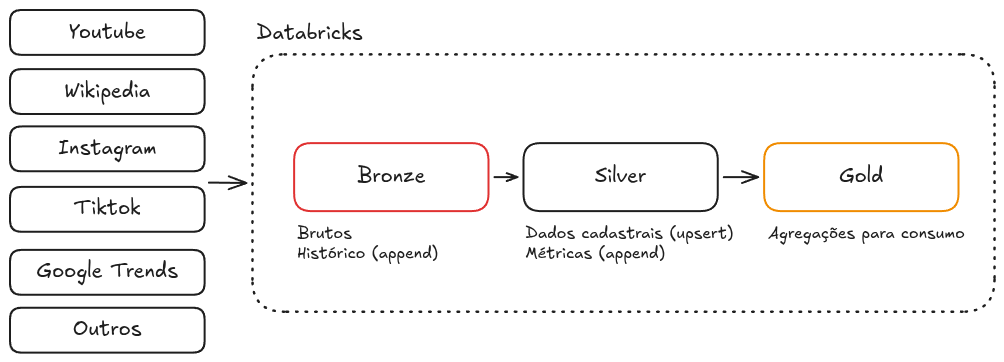
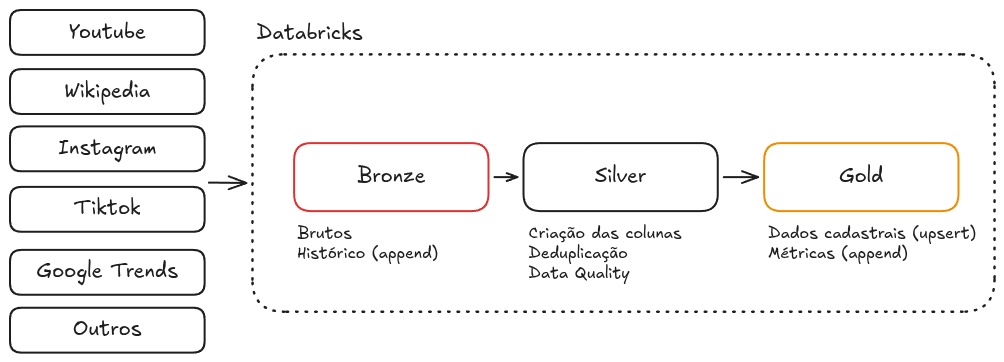
arquitetura

Changed region(s): [[0.5249, 0.6077, 0.741, 0.7901], [0.7719, 0.6077, 0.988, 0.7293]]

diff --git a/README.md b/README.md
@@ -46,7 +46,7 @@ bronze/
     └── ingestion_date=2024-04-15/
 ```
 
-Na camada Silver, os dados da bronze seriam transformados em tabelas: extração informações / colunas a partir do HTML com regex, extração informações / colunas a partir do Json da API, tipagem dessas colunas, deduplicação das linhas, validações das urls extraídas (como a url do YouTube extraída do Wikipedia), alguns joins de enriquecimento (com os dados extraídos do Wikipedia), aplicação de dataquality (testes de unicidade e completude).
+Na camada Silver, os dados da bronze seriam transformados em tabelas: extração informações / colunas a partir do HTML com regex, extração informações / colunas a partir do Json da API, tipagem dessas colunas, deduplicação das linhas, validações das urls extraídas (como a url do YouTube extraída do Wikipedia), alguns joins de enriquecimento (com os dados extraídos do Wikipedia), aplicação de dataquality (testes de unicidade e completude). Os dados seriam atualizados por Upsert.
 
 O particionamento seria o mesmo da bronze:
 ```
@@ -161,24 +161,23 @@ Notebook 1 (extração e salva na Bronze) -> Notebook 3 (lê da Bronze, transfor
 
 ### Notebook 1 — Extração (Bronze)
 
-- Lê `creators_scrape_wiki` para obter a lista de criadores
-- Chama Wikipedia API para resolver `wiki_page` → `creator_id`
-- Chama YouTube API para buscar metadados de canais e vídeos
-- Grava resultado bruto em `bronze.creators_raw` e `bronze.posts_raw` (append com timestamp)
+- lista ids do YouTube, Instagram, etc
+- Busca nas API pelos dados e metadados
+- Grava resultado bruto em `bronze.source` (append com timestamp)
 
 ### Notebook 2 — Transformação (Silver)
 
-- Lê Bronze, valida e limpa os dados
+- Lê Bronze, cria colunas, valida e limpa os dados
 - Tipagem explícita de todas as colunas
 - Remove duplicatas e registros inválidos
+- Data Quality
 - Upsert via `MERGE INTO` nas tabelas Silver
 
 ### Notebook 3 — Agregação (Gold)
 
-- Lê Silver e calcula agregações mensais por criador
-- Garante que todos os meses do intervalo existam (cross join com calendário)
-- Preenche meses sem posts com `num_posts = 0`
-- Sobrescreve tabelas Gold com `overwrite`
+- Lê Silver e cria tabelas fato e dimensões
+- Sobrescreve tabelas de cadastro / dimensão com `overwrite`
+- Snapshot das tabelas de métricas
 
 ---
 
@@ -186,11 +185,11 @@ Notebook 1 (extração e salva na Bronze) -> Notebook 3 (lê da Bronze, transfor
 
 ### Qualidade dos Dados
 
-Em cada notebook Silver, validações são executadas antes do upsert:
+Em cada notebook Silver, validações são executadas antes do upsert, com [ferramentas já disponíveis no Databricks](https://www.databricks.com/discover/pages/data-quality-management):
 
 ```python
 # Exemplos de checks de qualidade
-assert df.filter(F.col("creator_id").isNull()).count() == 0, "creator_id encontrado"
+assert df.filter(F.col("id_criador").isUnique()), "id_criador é único"
 assert df.filter(F.col("likes") < 0).count() == 0, "likes negativos encontrado"
 assert df.filter(F.col("published_at") > F.current_timestamp()).count() == 0, "data futura encontrada"
 ```
